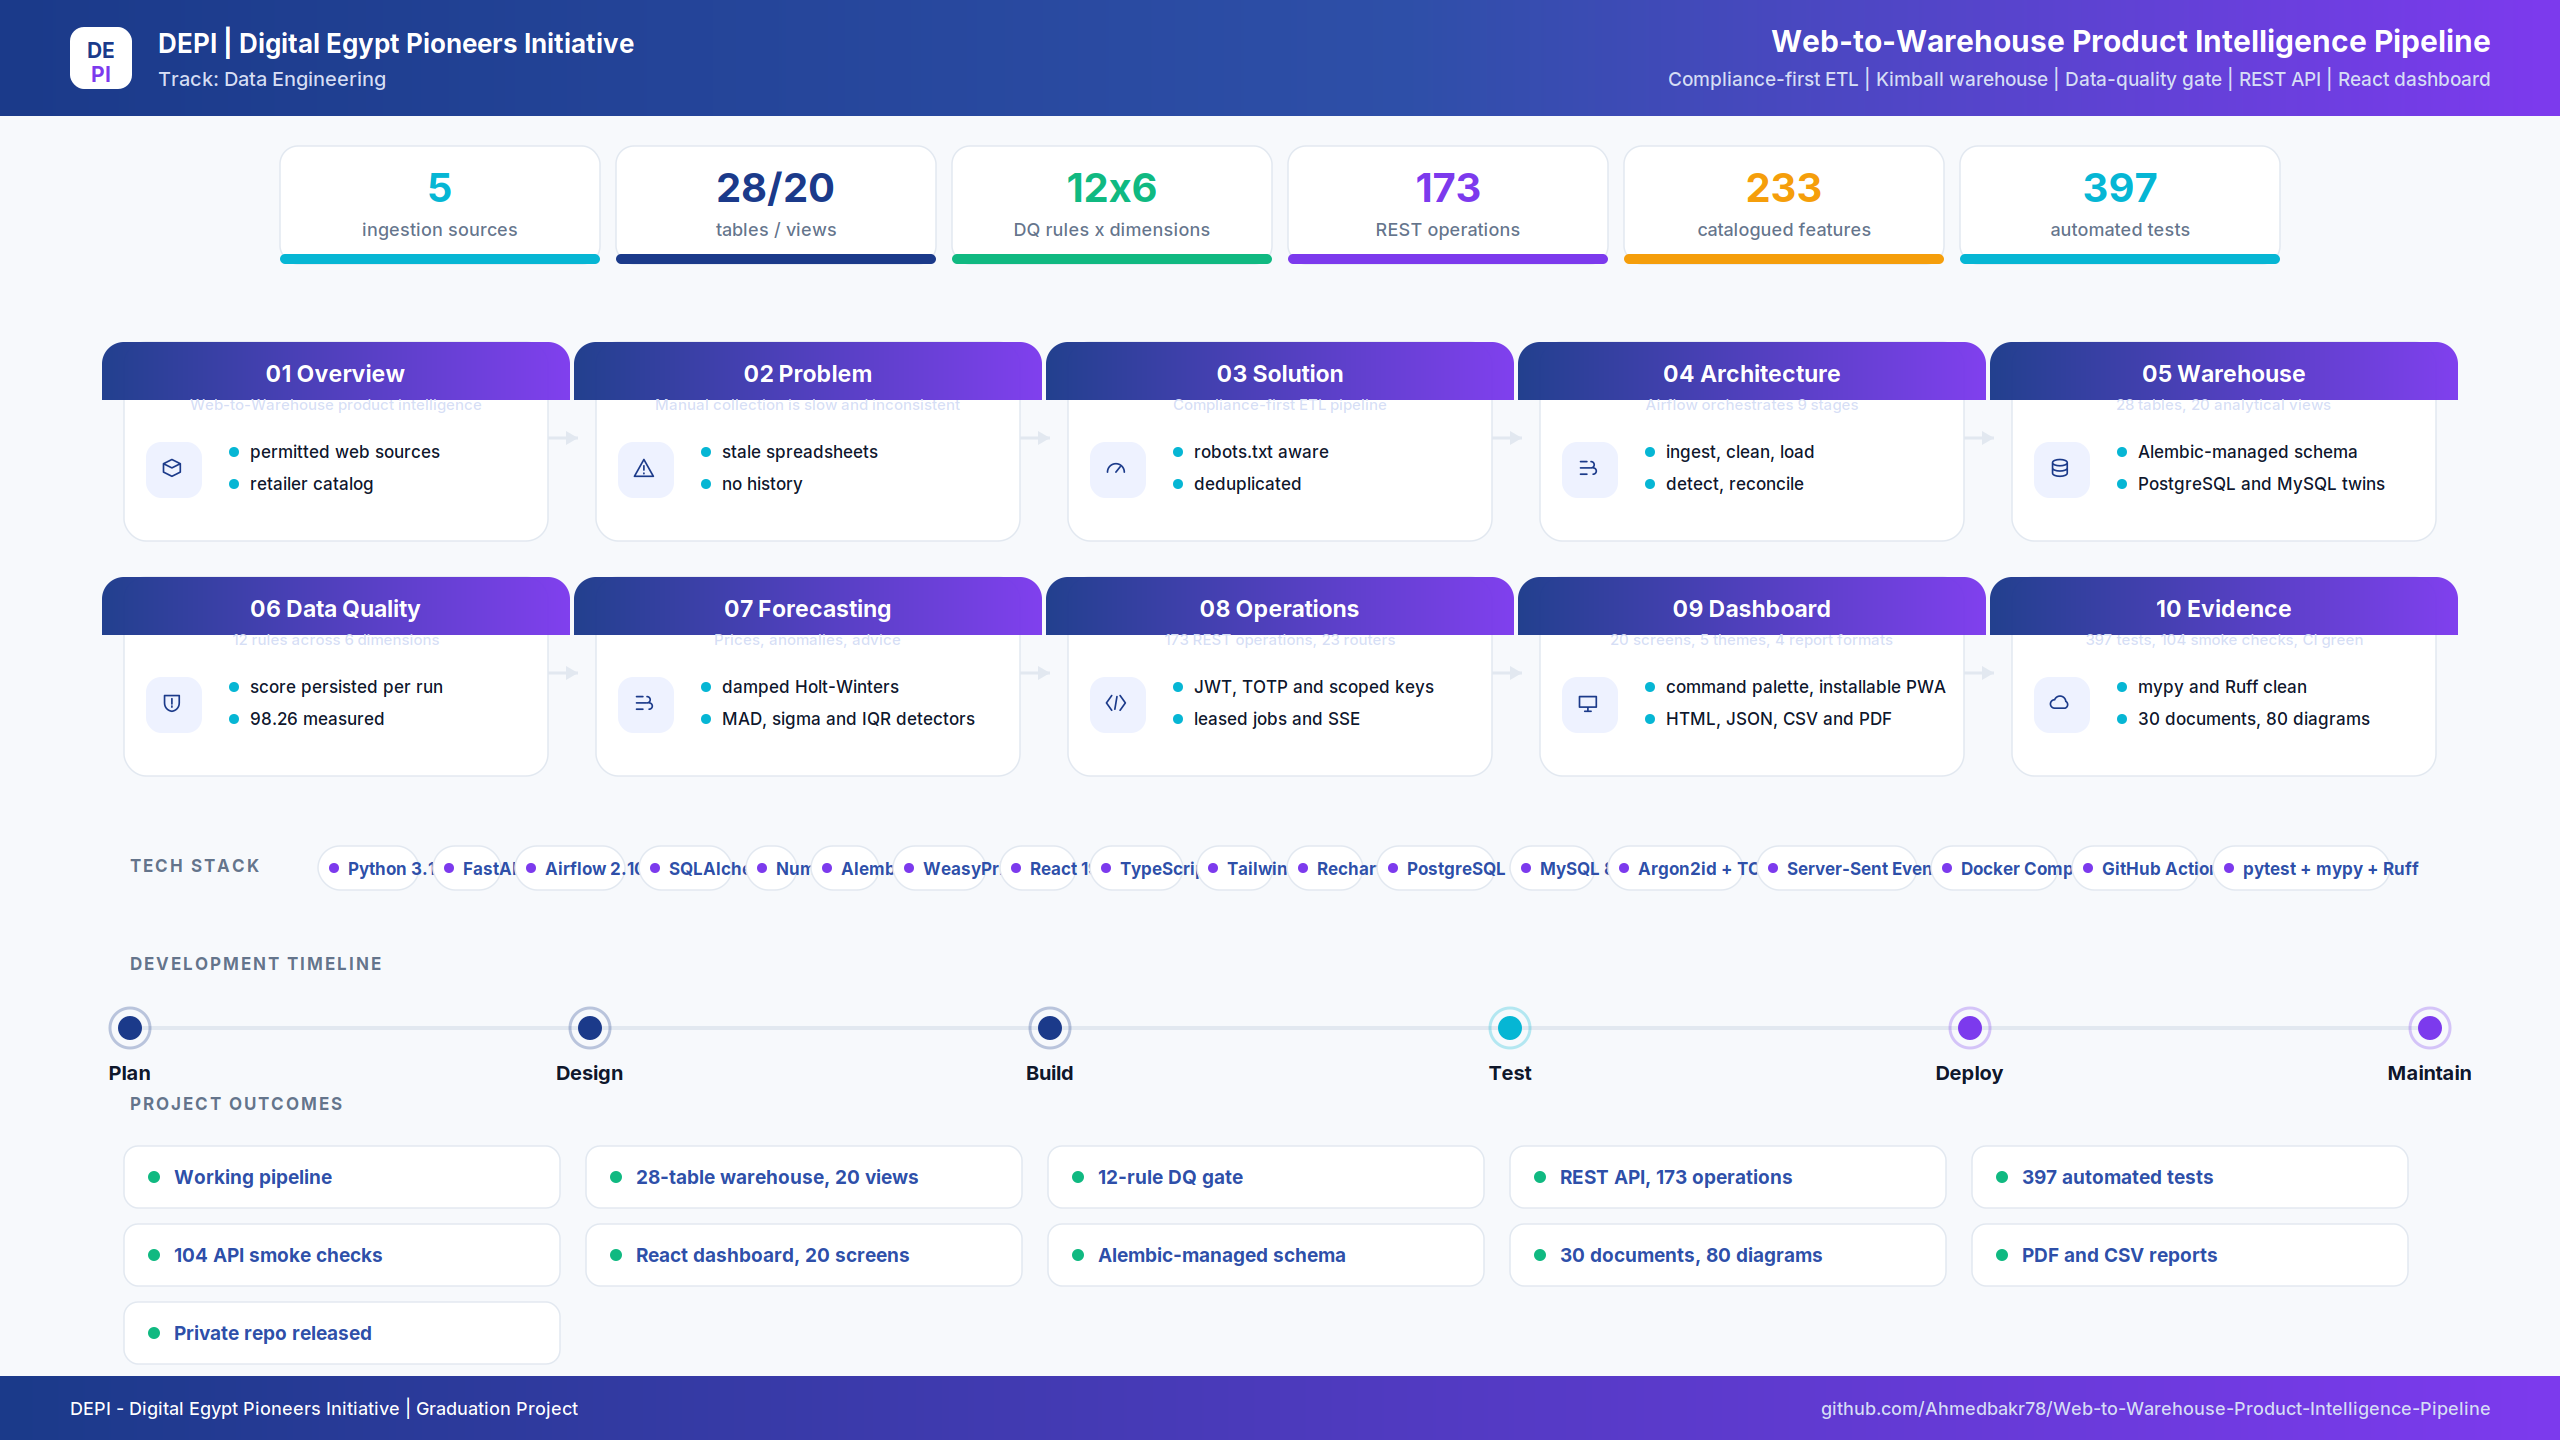
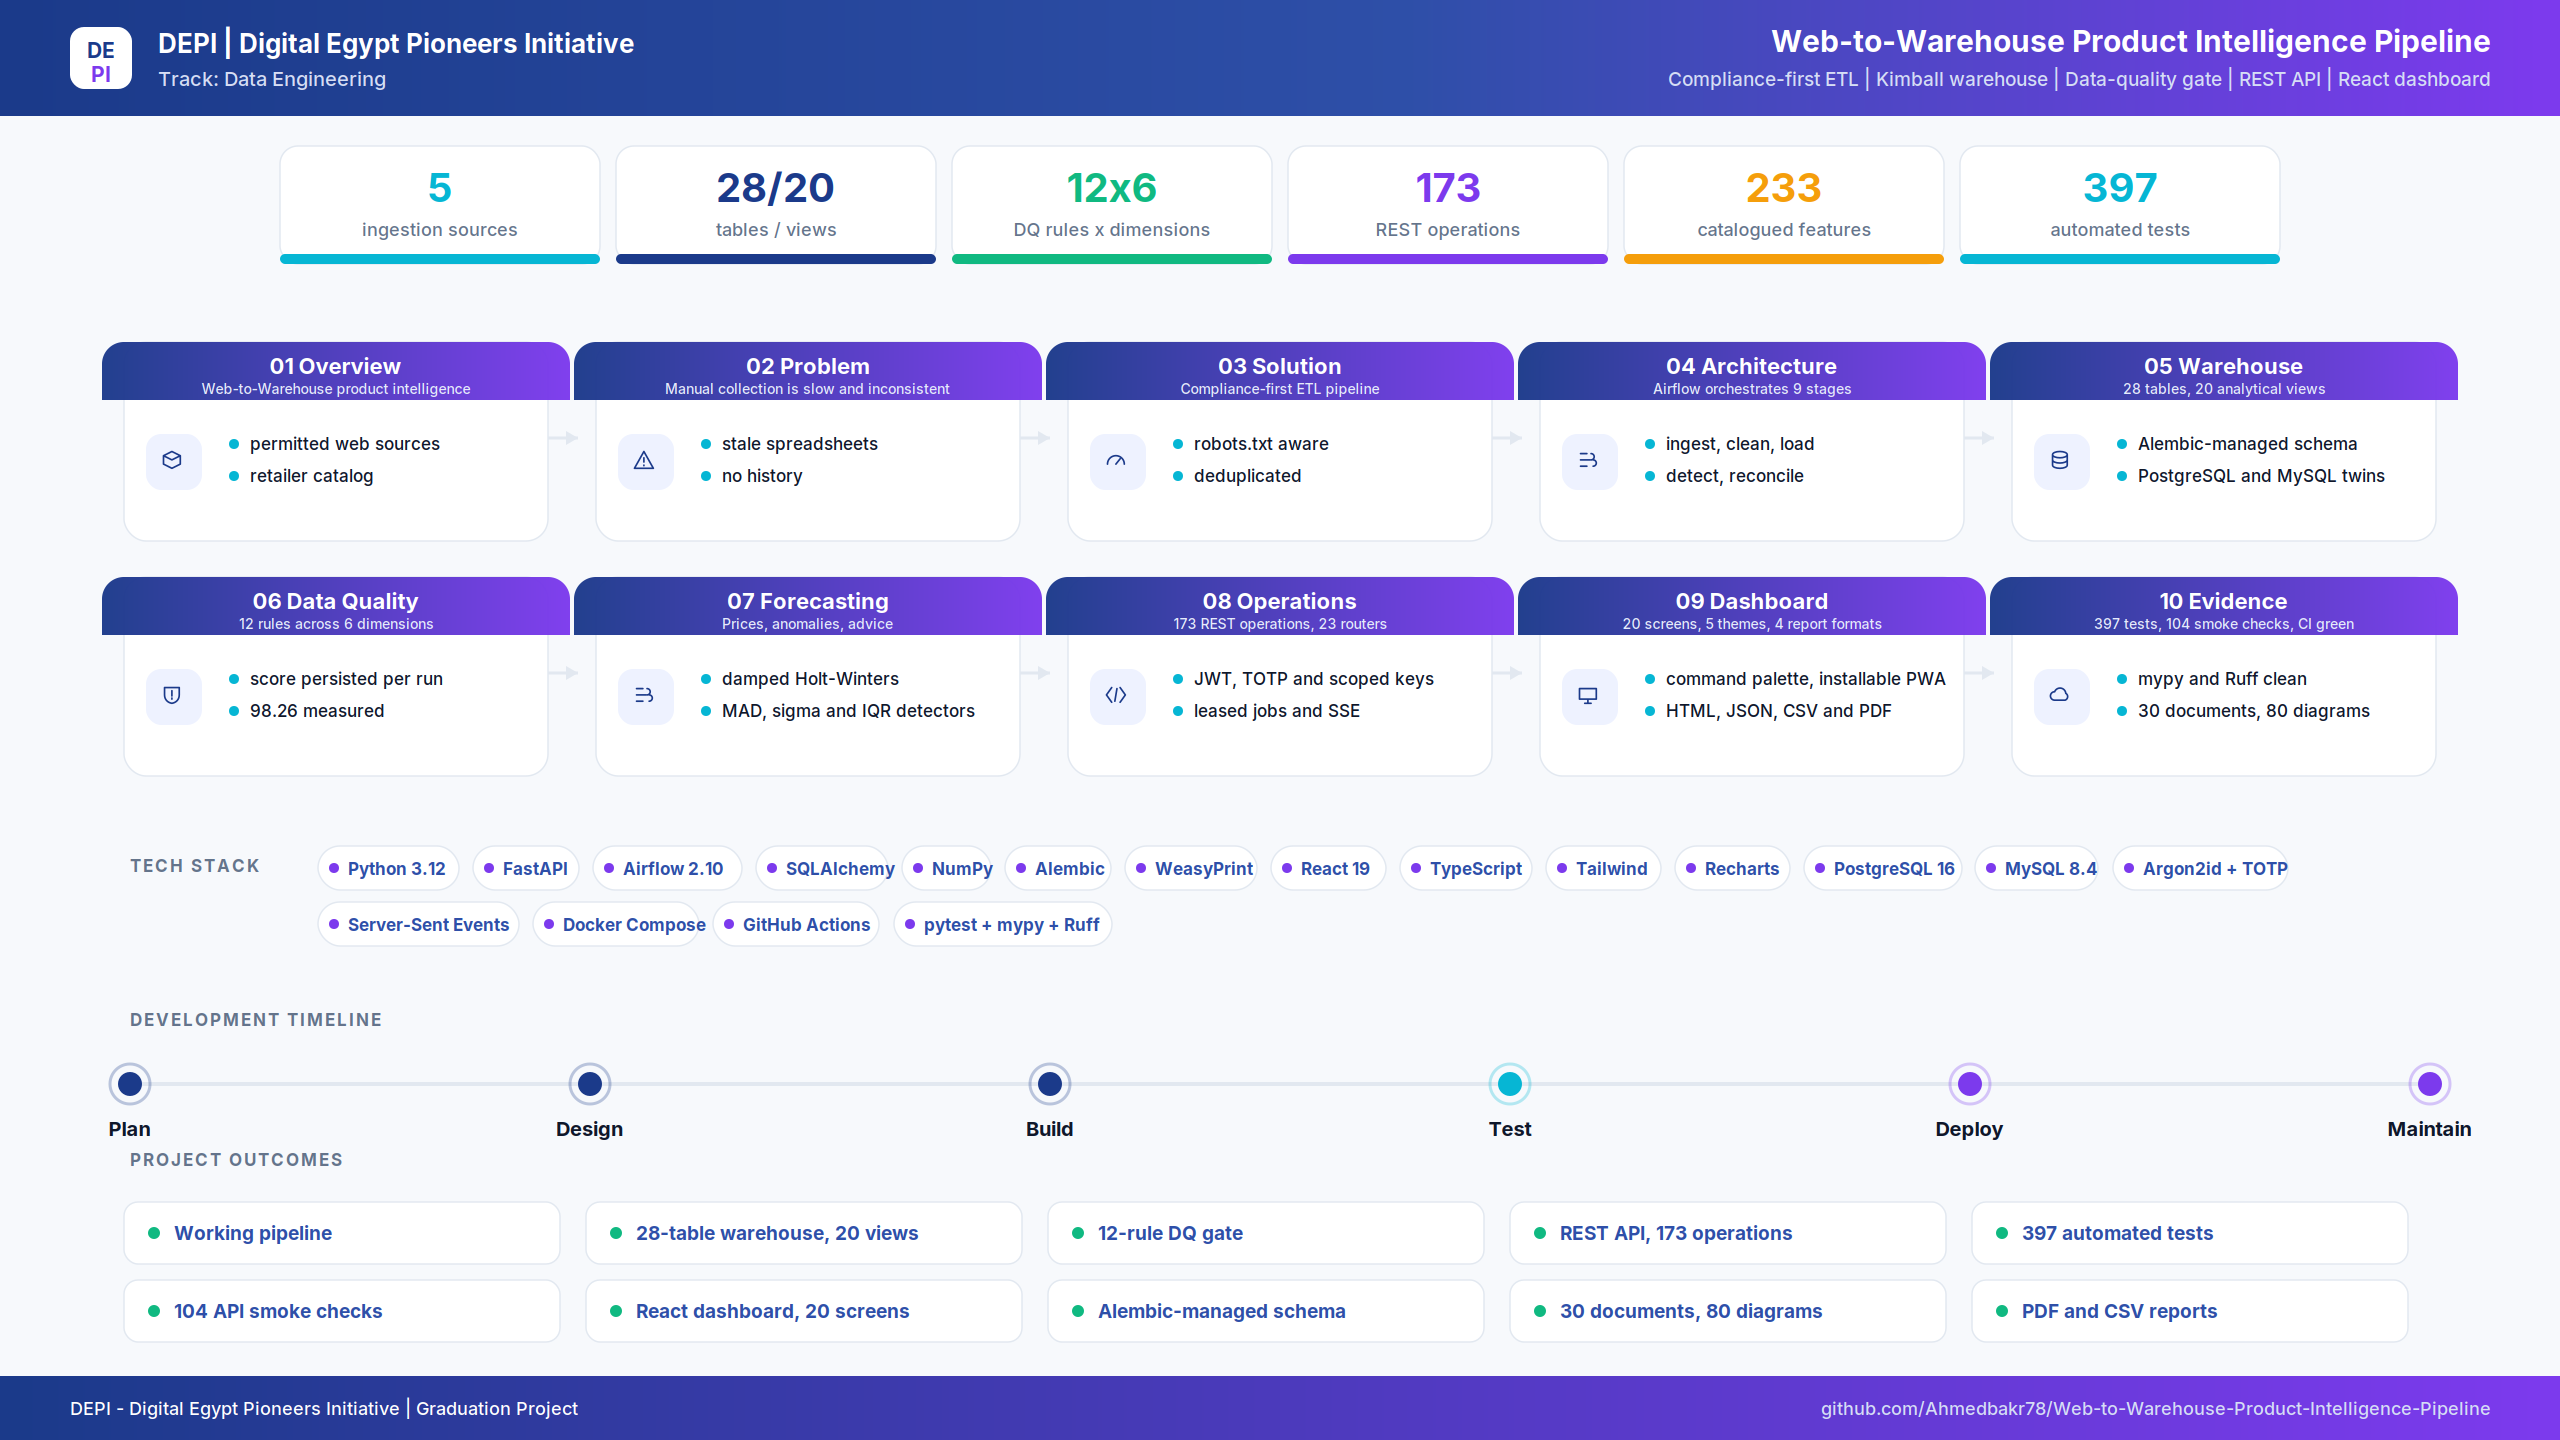
Refine infographic layout and badge wrapping
Adjust card header spacing, resize technology badges for accurate text fit, and remove the private repository outcome from the generated infographic assets.

diff --git a/scripts/make_infographic.py b/scripts/make_infographic.py
@@ -106,7 +106,6 @@ OUTCOMES = [
     "Alembic-managed schema",
     "30 documents, 80 diagrams",
     "PDF and CSV reports",
-    "Private repo released",
 ]
 
 ICON_PATHS = {
@@ -257,11 +256,11 @@ def build_svg() -> str:
             f'fill="url(#band)" opacity="0.97"/>'
         )
         parts.append(
-            text(x + card_w / 2, y + 40, f"{step:02d}  {title}", 23, 700, "#FFFFFF", anchor="middle")
+            text(x + card_w / 2, y + 32, f"{step:02d}  {title}", 22, 700, "#FFFFFF", anchor="middle")
         )
-        parts.append(text(x + card_w / 2, y + 68, subtitle, 15, 400, "#D6DEF5", anchor="middle"))
+        parts.append(text(x + card_w / 2, y + 52, subtitle, 14, 400, "#E6EBFB", anchor="middle"))
         icon_cx = x + 50
-        icon_cy = y + 128
+        icon_cy = y + 120
         parts.append(rounded(icon_cx - 28, icon_cy - 28, 56, 56, 15, "#EEF2FF"))
         parts.append(icon_icon(icon, icon_cx, icon_cy, PRIMARY))
         for k, keyword in enumerate(keywords):
@@ -278,7 +277,7 @@ def build_svg() -> str:
     bh = 44
     badge_widths = []
     for badge in TECH_BADGES:
-        size = 9 + 8.4 * len(badge)
+        size = 46 + 8.6 * len(badge)
         badge_widths.append(size)
     # Wrap by accumulated width: guessing a per-row count overflows as soon as one
     # badge is longer than average.
